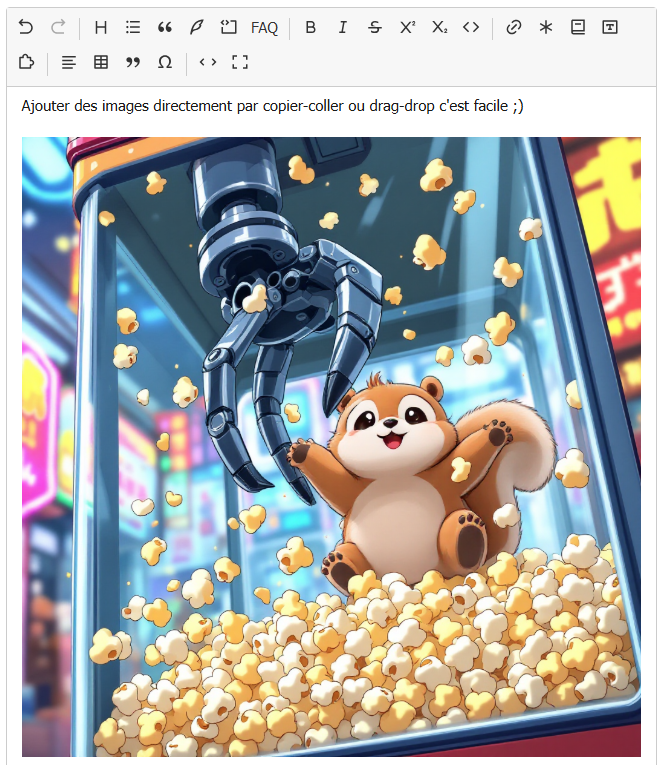
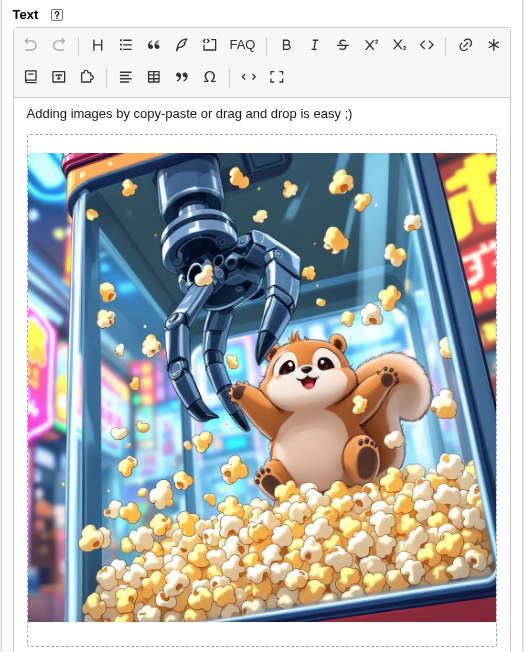
Refaire les captures anglaises avec l'interface en anglais
Erreurs de syntaxe, collage d'image, multi, tableau et coloration de
code : interface anglaise, légendes sans mention de l'interface
française.

diff --git a/docs/site/utiliser/multilinguisme.en.md b/docs/site/utiliser/multilinguisme.en.md
@@ -22,7 +22,7 @@ This choice helps you review and edit each version in the editor. It does not ch
 
 The first version uses the displayed language if it is enabled; otherwise it uses the first available language. A new version uses the first enabled language not already taken. **No language** is the default version, shown when no version matches the requested language.
 
-![Multi editor with a version without a language, an English version and a German version; screenshot of the French interface](../medias/edit_multi.en.png)
+![Multi editor with a version without a language, an English version and a German version](../medias/edit_multi.en.png)
 
 To change an inline multi, select it and open **Multilingual**. **Delete the multi** removes the shortcut while keeping the version currently displayed in the text.
 

diff --git a/docs/site/utiliser/erreurs-de-syntaxe.en.md b/docs/site/utiliser/erreurs-de-syntaxe.en.md
@@ -3,7 +3,7 @@
 An incomplete SPIP shortcut can change how text is rendered. The editor keeps the passage as
 source and marks some issues with a wavy underline. The count appears below the editor.
 
-![A syntax issue underlined in the editor, with an explanation; screenshot of the French interface](../medias/erreur_syntaxe.en.png)
+![A syntax issue underlined in the editor, with an explanation](../medias/erreur_syntaxe.en.png)
 
 Click the count to open the next issue. The dialog explains what may happen and shows the SPIP
 source to correct. Edit it, then click **Apply**.

diff --git a/CHANGELOG.md b/CHANGELOG.md
@@ -6,7 +6,7 @@
   à l'archive et à Git. Le rôle du porte-plume est précisé (l'éditeur visuel le remplace sans
   s'appuyer sur lui, et le bouton Source affiche une simple zone de texte). Les libellés cités
   correspondent à ceux de l'interface, notamment le bouton Multilingue et les réglages en anglais,
-  et les pages anglaises montrent leurs captures anglaises quand elles existent.
+  et les pages anglaises montrent des captures de l'interface anglaise.
 
 ## [1.3.0] - 2026-10-17
 

diff --git a/docs/site/utiliser/images-documents.en.md b/docs/site/utiliser/images-documents.en.md
@@ -6,7 +6,7 @@ other document types allowed by your site, such as PDFs. Each uploaded file beco
 document linked to the article being edited. The editor inserts its `<docN>` shortcut into the
 text.
 
-![An image added to the visual editing area; screenshot of the French interface](../medias/demo_dragdrop.en.png)
+![An image added to the visual editing area](../medias/demo_dragdrop.en.png)
 
 !!! note "Before you start"
     Check that **Paste images and drop documents** is enabled in the

diff --git a/docs/site/utiliser/mise-en-forme.en.md b/docs/site/utiliser/mise-en-forme.en.md
@@ -23,7 +23,7 @@ In a list, **Tab** indents an item and **Shift+Tab** outdents it.
 In a table, place the cursor in a cell before reopening **Table**:
 you can add or delete a row or column, add a header row, or merge or split cells.
 
-![Editing a table; screenshot of the French interface](../medias/editeur_tableau.en.png)
+![Editing a table](../medias/editeur_tableau.en.png)
 
 ## A few keyboard shortcuts
 
